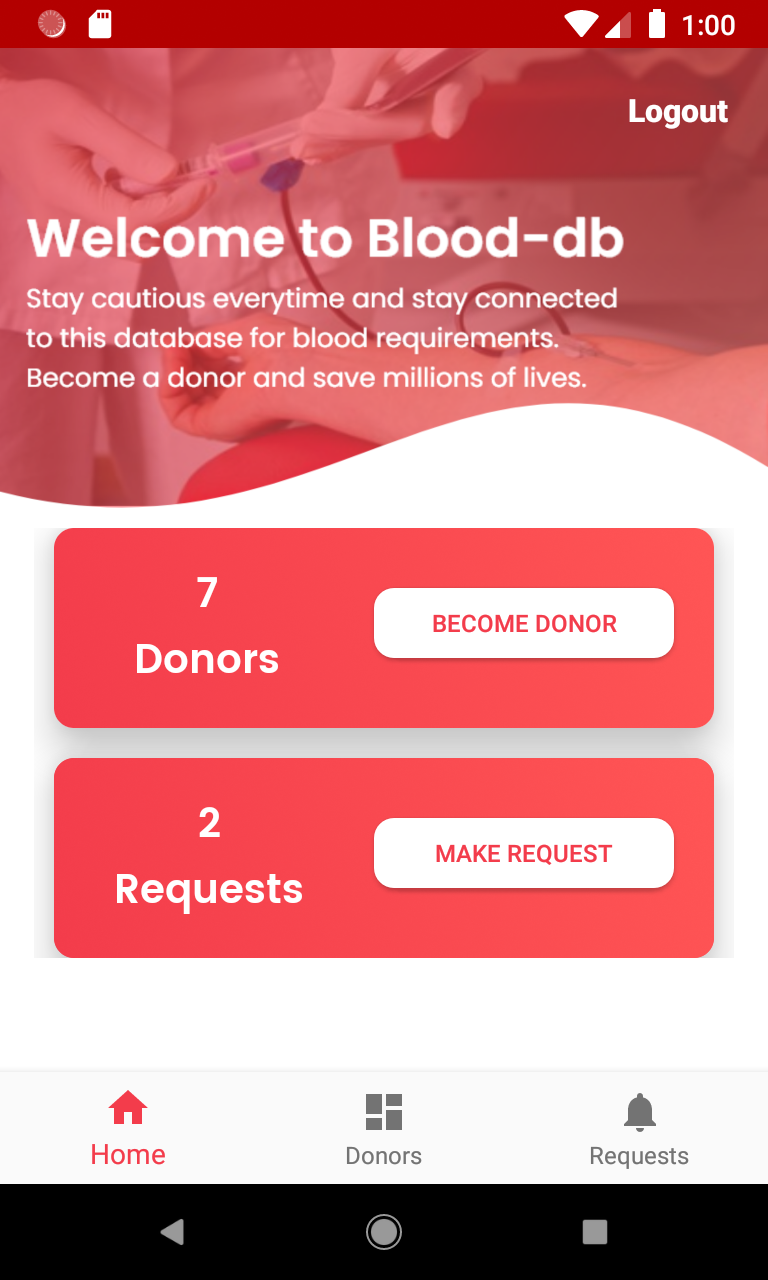
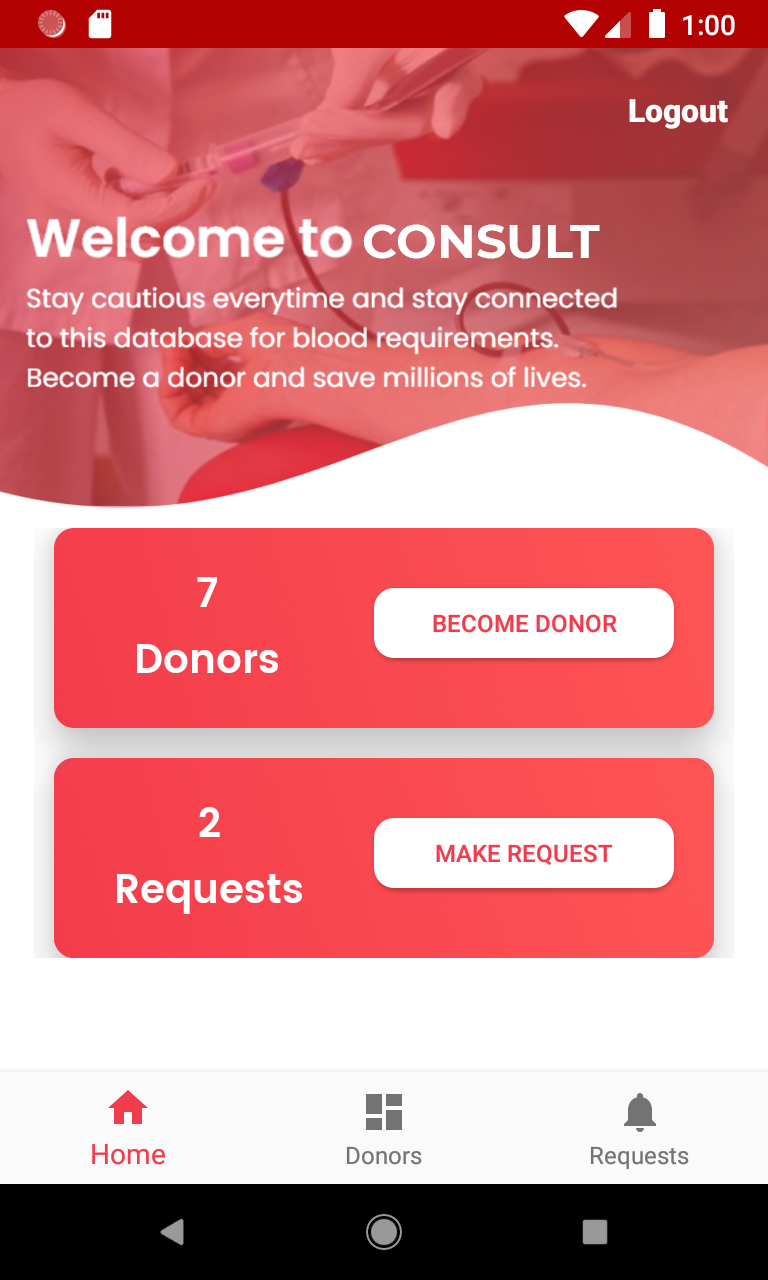
Added README

Changed region(s): [[0.4688, 0.1562, 0.8125, 0.2188]]

diff --git a/README.md b/README.md
@@ -1,0 +1,79 @@
+# Hack Off - CONSULT, Team Z-axis
+<p align="center">
+    <image src="bloodBank/images/logo.png" width="200">
+</p>
+# About CONSULT
+CONSULT is a responsive android application that maintains a record of blood donors and their blood groups along with requests made by people to the blood donors for emergency blood requirements.
+
+In addition to this, we have added a General Health query related chatbot (Siemens Healthineers Problem Statement). We have first scraped through website to create the dataset and then preprocessed the data in order use it for intents and responses for the Neural Network to learn and reply accordingly.
+
+The chatbot is first trained using [Natural Language Toolkit](https://www.nltk.org/) to understand the messages depending upon various tags and randomly choose the appropriate message to reply.
+We used flask and connected it with twilio in order to receive and send messages through [Twilio](https://www.twilio.com/). The chatbot is then connected to the flask app to use the chatbot on whatsapp to reply to the user. This is done in order to use the same chatbot to reply on whatsapp as well. Hence, our chatbot works for mobile app, website as well as social media messaging apps like whatsapp and telegram on modifying. The flask app is deployed using Heroku on which post requests are made in order ot get a reply back.
+
+## Features
+Makes it easy for the recipients to look for blood donors in emergency situations,helps in making contact easily and also helps in solving health queries.
+Included features are:
+1. User Database
+2. Authentication of user
+3. Login and signup options
+4. Make Requests
+5. Find donors in your own city
+6. Chatbot assistant for General Health Queries
+
+### Working of the app
+1. The landing page of the app gives description about the application:
+    <p align="center">
+    <image src="bloodBank/images/1.jpeg" width="200">
+    </p>
+2. The Awareness module Page:
+    <p align="center">
+    <image src="bloodBank/images/10.png" width="200">
+    </p>
+    
+3. The Register page:
+    <p align="center">
+    <image src="bloodBank/images/2.png" width="200">
+    </p>
+4. The login page,used to log in to your account:
+    <p align="center">
+    <image src="bloodBank/images/3.png" width="200">
+    </p>
+5. The home page fragment, where the user can view the total donors and requests made and get submit a donor request:
+    <p align="center">
+    <image src="bloodBank/images/4.png" width="200">
+    </p> 
+6. The Request and the donor application forms where the user adds necessary details:
+    <p align="center">
+    <image src="bloodBank/images/5.png" width="200">
+    <image src="bloodBank/images/6.png" width="200">
+    </p>
+7. The Explore fragments where the user can view all the donors and requests:
+    <p align="center">
+    <image src="bloodBank/images/7.png" width="200">
+    <image src="bloodBank/images/8.png" width="200">
+    </p>
+8.The Chatbot Module that helps user with queries
+    <p align="center">
+    <image src="bloodBank/images/9.png" width="200">
+    </p> 
+        
+#### Tools used
+1. Realtime Database by firebase
+2. Firebase Authentication
+3. Firebase UI features
+4. Android Studio IDE
+5. Adobe XD for UI design
+6. Blender for 3D Modelling
+7. Python for Chatbot and ML models
+
+## Python libraries used:
+> * [NLTK](https://www.nltk.org/)
+> * [Pytorch (torch)](https://pytorch.org/)
+> * [Flask](https://flask.palletsprojects.com/en/1.1.x/)
+> * [Numpy](https://numpy.org/)
+> * [json](https://docs.python.org/3/library/json.html)
+> * [Twilio](https://www.twilio.com/docs/libraries/python)
+
+## Requirements:
+> * Setup a twilio account
+> * Deploy your flask app on Heroku and use its link in the twilio sandbox settings
